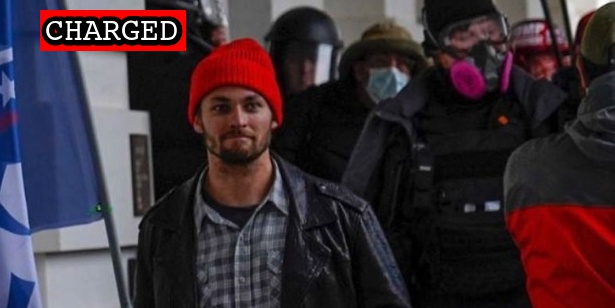
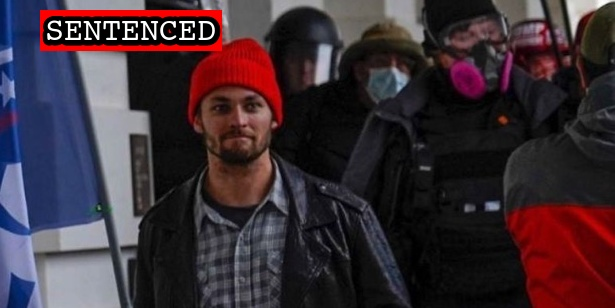
Cavanaugh sentencing

Changed region(s): [[0.0618, 0.0292, 0.3707, 0.1753]]

diff --git a/docs/_suspects/brandon-cavanaugh.md b/docs/_suspects/brandon-cavanaugh.md
@@ -4,20 +4,20 @@ lastName: Cavanaugh
 hashtag: LetsGoOtherBrandon
 aka:
 residence: California
-status: Charged
+status: Sentenced
 date: 2022-08-16
 charged: 2022-08-16
 indicted:
-convicted:
+convicted: 2023-04-26
 acquitted:
-sentenced:
+sentenced: 2023-04-26
 dismissed:
 deceased:
-plea_hearing:
+plea_hearing: 2023-04-26
 trial_date:
 trial_type:
 jury_selection:
-sentencing:
+sentencing: 2023-04-26
 status_conference:
 age:
 occupation:
@@ -32,7 +32,7 @@ raid:
 perpwalk:
 quote:
 title: Brandon Cavanaugh charged on August 16th, 2022
-description: Click for latest case details. Suspects innocent until proven guilty.
+description: Convicted on April 26, 2023. Click for latest case details.
 author: seditiontrack
 layout: suspect
 published: true
@@ -41,8 +41,17 @@ caseName: USA v. CAVANAUGH
 judge: Trevor N. McFadden
 videos:
 charges:
+  - code: 18 USC § 1752(a)(1)
+    title: Entering a restricted building or grounds
+    url: https://www.law.cornell.edu/uscode/text/18/1752
+    felony: false
 sentence:
+  - 14 days intermittent confinement
+  - 2 years probation
+  - $1000 fine
+  - $500 restitution
 ---
+
 - [News Report](https://www.msn.com/en-us/news/crime/huntington-beach-man-who-allegedly-bragged-about-breaching-the-capitol-is-arrested-charged/ar-AA119aFD)
 - [Complaint](https://www.justice.gov/usao-dc/case-multi-defendant/file/1529221/download)
 - [Statement of Facts](https://www.justice.gov/usao-dc/case-multi-defendant/file/1529226/download)
